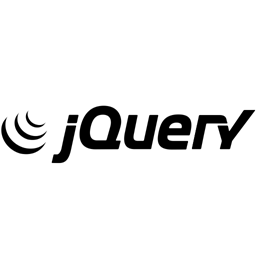
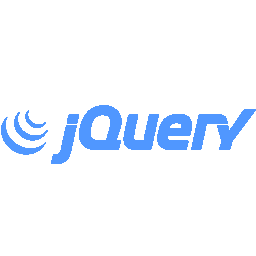
modif real et couleur img techno js et mysql

Changed region(s): [[0.1875, 0.4062, 1.0, 0.6562], [0.0, 0.4375, 0.1875, 0.625]]

diff --git a/css/style.css b/css/style.css
@@ -269,14 +269,12 @@ Competence
   widows: 65px;
   height:65px;
   transform: translateY(-10px);
-  opacity: 0.8;
 }
 
 #jq{
     transform: translateY(-30px) translateX(-15px);
     width: 80px;
     height:90px;
-    opacity: 0.8;
 }
 
 .techno i {
@@ -324,7 +322,11 @@ REALISATION
     color: rgba(0, 110, 255, 0.726);
 }
 
-
+.titreul{
+    transform: translateX(-10px);
+    margin-bottom: 10px;
+    list-style: none
+}
 
 @media screen and (min-width: 995px) {
     #section-realisation h2{
@@ -340,6 +342,10 @@ REALISATION
     
     .text-real{
         text-align: center
+    }
+    .titreul{
+        text-align: center;
+        margin-bottom: 10px;
     }
 
 }

diff --git a/index.html b/index.html
@@ -336,7 +336,7 @@
                         <p class="lead">Application web pour la fondation Bouygues Construction</p>
                         
                         <ul>
-                            <li class=""><u>Expérience:</u></li>
+                            <li class="titreul"><u>Expérience:</u></li>
                             <li><small>Responsable du développement Front-end (HTML, CSS, Bootstrap, JavaScript, jQuery).</small></li>
                             <li><small>Responsable du développement Back-end (Symfony 4,Mysql).</small></li>
                             <li><small>Responsable des déploiements.</small></li>
